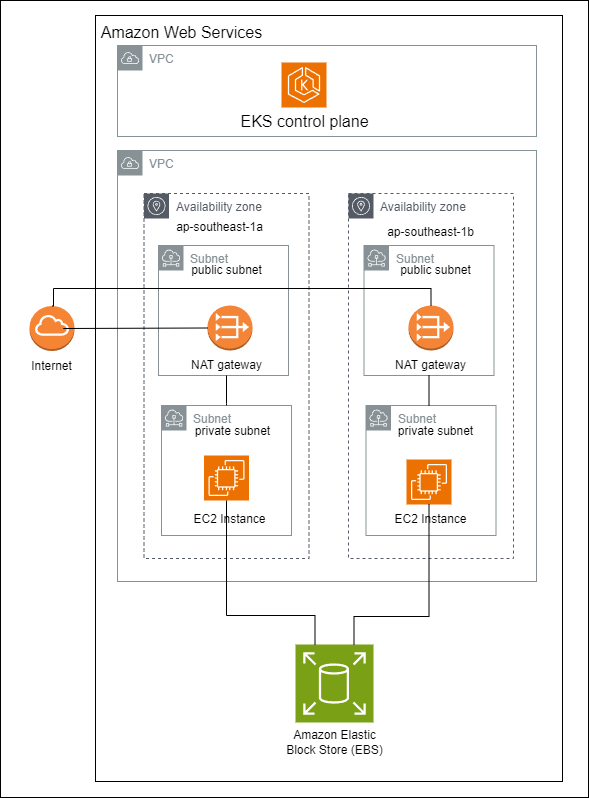
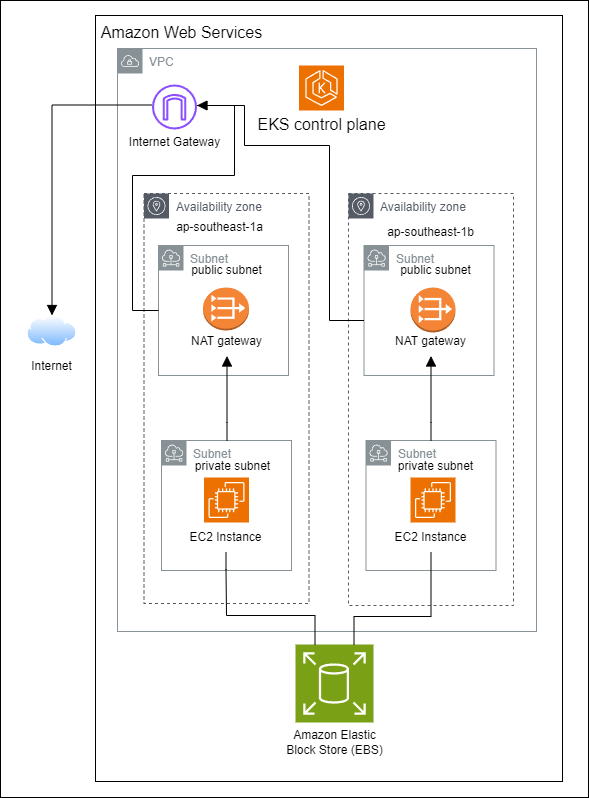
Added changes to architecture diagram, updated README file and various files to reflect new design

diff --git a/README.md b/README.md
@@ -19,28 +19,33 @@ A VPC is created with two private and two public subnets (one pair in each AZ wh
 
 The EKS control plane is also automatically created when the cluster is set up within the defined VPC's cidr block.
 
-Private subnets are used for better security so that the traffic is routed through the public subnets before hitting the Internet.
+Private subnets are used for better security so that the traffic is routed through the NAT gateway in the public subnets before hitting the internet.
+
 The /16 subnet mask is chosen as it comprises of sufficient IP addresses (65,536) to allocate to all the subnets as well as worker nodes.
 
-The *enable_dns_support* and *enable_dns_hostnames* are enabled to allow each instance created to have a DNS name and IP address assigned automatically.
+NAT gateways are also added and ensured that there is one created per AZ. This allows the worker nodes in each AZ to be able to route traffic to the internet through the NAT gateway in their own AZ.
 
 ### Subnets
 
-Subnets is used to influence how traffic is routed within VPC and to the Internet. Both public and private subnets is used in this deployment to allows better security and cost-efficacy. Having the subnets across 2 different AZ allows for maintaining high availability.
+Subnets is used to influence how traffic is routed within VPC and to the internet. Both public and private subnets is used in this deployment to allows better security and cost-efficacy. Having the subnets across 2 different AZ allows for maintaining high availability.
 
 In each private subnet, the worker nodes are deployed. These nodes are connected to the public subnets and able to communicate with various services within the VPC. The separation of private and public subnets brings various benefits:
 
 - Placing worker nodes in private subnets shield them from direct access to the internet and reducing attack surface.
-- Worker nodes usually requires limited internet access for certain tasks such as pulling container images or communicating with external services. These tasks can be routed through the public subnets if they are required or via a NAT Gateway in public subnet in each AZ. This save costs and provide better control over outgoing traffic.
+- Worker nodes usually requires limited internet access for certain tasks such as pulling container images or communicating with external services. These tasks can be routed through a NAT Gateway in the public subnet in each AZ to the internet. This save costs and provide better control over outgoing traffic.
 - By having both public and private subnets in each AZ, application and its components that are residing in each private and public subnets can continue to function even if one AZ experiences an outage.
 
 ### Route Tables
 
-Route tables are added to define the allow routes for private and public subnets within and outside the EKS cluster.
+Route tables are added to define the allowed routes for private and public subnets within and outside the EKS cluster.
 
-Two route tables are created, one for private subnet and one for public subnet. For the public subnet table, a route is created to allows the public subnets to access the Internet. This table is associated with both public subnets across two AZs. For the private subnets route table, the route created is to allow only for local VPC communication and not with the internet. This table is also associated with both private subnets across two AZs.
+Two route tables are created, one for private subnet and one for public subnet.
 
-The design considerations allows only public subnets access to the internet via the Internet Gateway while private subnets can only communicate with the nodes and other services within the VPC.
+For the public subnet table, a route is created to allows the public subnets to access the internet. This table is associated with both public subnets across two AZs.
+
+For the private subnets route table, the route created is to allow private subnets to access internet only via the NAT gatway. This table is also associated with both private subnets across two AZs.
+
+The design considerations allows public subnets access to the internet via the Internet Gateway while preventing private subnets from directly accessing the internet.
 
 ### Security Groups
 
@@ -70,7 +75,7 @@ The following policies are attached to the IAM role for worker nodes:
 
 - **AmazonEKSWorkerNodePolicy.** This policy is a predefined IAM policy by AWS to provide permissions required for Amazon EKS worker nodes such as joining the cluster or retriving information about the cluster. This is added to allow worker nodes to connect to the EKS control plane smoothly.
 
-- **AmazonEKSCNIPolicy.** This policy is a predefined IAM policy by AWS to provide permissions required to manage networking related actions, such as assigning IP addresses from the VPC cidr block, allowing the worker nodes to assign IP addresses for instances based on the available addresses from the VPC cidr block.
+- **AmazonEKS_CNI_Policy.** This policy is a predefined IAM policy by AWS to provide permissions required to manage networking related actions, such as assigning IP addresses from the VPC cidr block, allowing the worker nodes to assign IP addresses for instances based on the available addresses from the VPC cidr block.
 
 A custom IAM policy is also created for EBS storage. In the policy, various permissions such as creating volume, creating snapshots and modifying volues are added. These permissions allow the worker nodes to utilise EBS storage and store persistent data. This policy is also attached to the IAM role for worker nodes.
 
@@ -103,7 +108,7 @@ Route tables and private subnets are not outputted as they often contain sensiti
 3. Latency is negligible for communication across AZs, or worker nodes can be deployed in the same AZs if the communication require lower latency.  
 4. EBS volumes attached to the EKS cluster is encrypted at rest, ensuring that the worker nodes' storage is protected.
 5. EBS volumes are available for both the worker nodes across different AZs, the availability can be either direct access to the EBS storage or its snapshots.
-6. A NAT Gateway is to be set up in the public subnet if the private subnet needs to access the internet.
+6. There is an Internet connection for deployment and pulling of the necessary resources to deploy the cluster.
 
 ## Deployment
 
@@ -124,19 +129,24 @@ Route tables and private subnets are not outputted as they often contain sensiti
 2. Create a directory to store all the terraform files. (deploy-eks-cluster)
 
 3. Create various files that contain the configurations required to set up the cluster as well as the required VPC.
+
     - *main.tf* : Contain all information required to set up the terraform code, provider settings etc.
-    - *variables.tf* : Contain input variables to be used by other modules
-    - *eks-cluster.tf* : Contain the information about the EKS cluster, including number of private subnets, number of worker nodes.
 
-    - *VPC.tf* : Contain the information on the cidr blocks, availability zones, private and public subnets.
+    - *variables.tf* : Contain the common variables that are used in various other configuration files. This allows the value of the variables to be centrally managed.
 
-    - *routes.tf* : Contain the information on the route tables for public and private subnets.
+    - *eks-cluster.tf* : Contain the information about the EKS cluster, including number of private subnets, number of worker nodes. Additional security groups that are created in `security_groups.tf` is also linked to the cluster via *cluster_additional_security_group_ids*.
+
+    - *VPC.tf* : Contain the information on the cidr blocks, availability zones, private and public subnets. The *enable_dns_support* and *enable_dns_hostnames* are enabled to allow each instance created to have a DNS name and IP address assigned automatically.
+
+    - *routes.tf* : Contain the information on the route tables for public and private subnets. The code shown is commented as these are included in the terraform module for aws vpc (terraform-aws-modules/vpc/aws)
 
     - *roles.tf* : Contain the information on all the incoming and outgoing traffic rules for the control plane and worker nodes.
 
     - *nacl-config.tf* : Contain the information on all inbound and outbound traffic rules at the subnet level.
 
     - *roles.tf* : Contain the information for all he IAM roles and policies used for the worker nodes in order to ensure that they are permissioned to access certain resources.
+
+    - *nat_gateway.tf* : Contain the information for creating a nat gateway for each AZ. The code is commented as these are included in the terraform module for aws vpc (terraform-aws-modules/vpc/aws)
 
     - *ebs.tf* : Contain information on the EBS volume to be used by the EKS cluster
 
@@ -150,12 +160,18 @@ Route tables and private subnets are not outputted as they often contain sensiti
 
 5. Run `terraform init` to initialize terraform with all the providers.
 
-6. Run `terraform validate` to validate the configuration
+6. Run `terraform validate` to validate the configuration.
 
-7. Run `terraform plan` to play the deployment  
+7. Run `terraform plan` to plan the deployment, allowing you to see what terraform will be deploying before it is applied.  
 
 8. Run `terraform apply` to apply and create all the necessary VPC, subnets, security groups, eks cluster and worker nodes. Once the process is completed, Terraform will output the cluster information.
 
 9. Congratulations! You have deployed an AWS EKS cluster successfully!
 
 10. (Optional) Run `kubectl get nodes` to check that your worker nodes are deployed correctly and you are able to see them in different availability zones (`ap-southeast-1a` and `ap-southeast-1b`)
+
+11. (Optional) Verification of your cluster: Using the instance's public IP outputted from Terraform. You can ssh into the worker node's instance with the keypair and public IP.
+
+- You can check if you have internet access by just `ping google.com`.
+
+- You can check if you can access the other worker nodes by checking its private IP address of the other nodes and `ping <private-ip-of-other-instance>`
